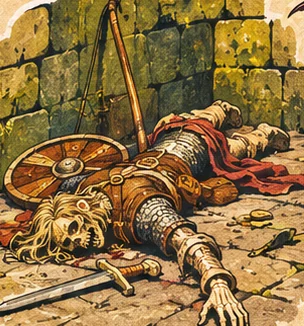
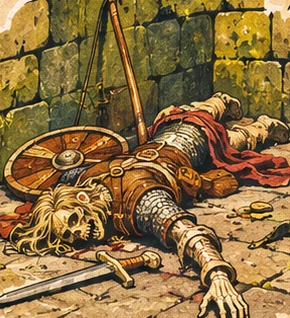
Dragon's Keep: trim two creature crops
The mountain troll and fallen warrior crops lose a sliver of the owner's sheet border and of the bat's wing. All
seven creature drawings checked in play (each card drawn in a test game).

diff --git a/docs/plans/redesign-build-2026-11-21.md b/docs/plans/redesign-build-2026-11-21.md
@@ -157,3 +157,7 @@ real saves in it, signed-in saves on the deployed site.
   "What just happened" panel is gone at every size (it was already hidden on an upright phone); the menu's Event log
   button opens the whole log. The results screen keeps its "See the event log" shortcut to the same sheet. Spec v12's
   dock-order CSS for #latest stays and simply matches nothing.
+- Creature drawings checked in play (2026-11-22): dark elf, orc, mountain troll, vampire bats and fallen warrior each
+  drawn from a test game (the card put on top of the room deck in a copy of a scenario save). All show whole and
+  matched to the right card; the troll and fallen warrior crops were trimmed of a sliver of the sheet's border and the
+  bat's wing.
